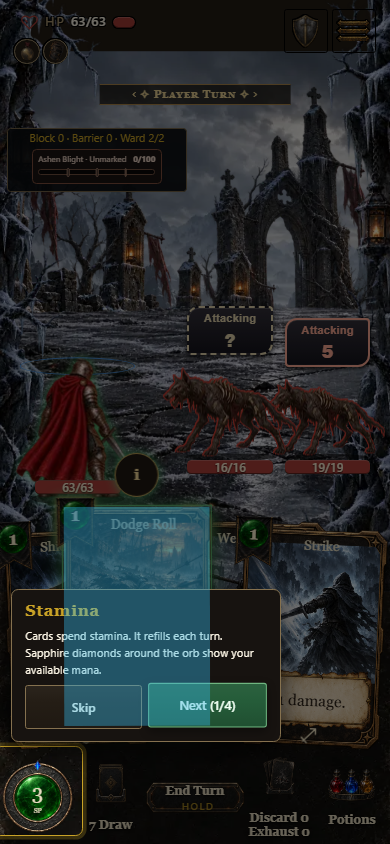
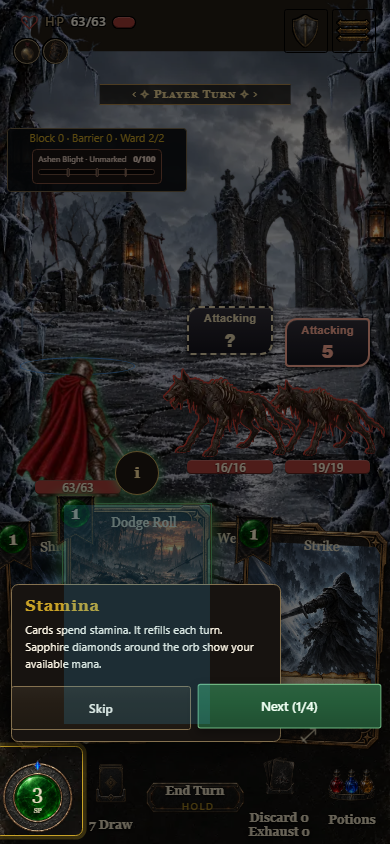
Record combined alternative cards and real tutorial inputs

Changed region(s): [[0.0308, 0.5237, 0.9846, 0.8626], [0.6154, 0.6777, 0.7385, 0.7085]]

diff --git a/docs/combat-card-sigils.md b/docs/combat-card-sigils.md
@@ -70,3 +70,10 @@
 - Standalone `0.7.1.1124` passes desktop and phone hand geometry, artwork loading, accessible names, sigil-position selection, Information and Escape/focus restoration. All four current-build aliases, build identity and receipt ordering checks pass.
 - [Combined source desktop](qa/combat-card-sigils/combined-source/desktop-combat.png), [phone Information](qa/combat-card-sigils/combined-source/phone-inspection.png), [source report](qa/combat-card-sigils/combined-source/report.json), [combined standalone desktop](qa/combat-card-sigils/combined-standalone/desktop-combat.png), [phone Information](qa/combat-card-sigils/combined-standalone/phone-inspection.png), [standalone report](qa/combat-card-sigils/combined-standalone/report.json).
 - Independent review approved #1732 runtime `df48a4d796`: legal empty statements and adjacent side-effect/named imports are accepted, while invalid trailing text and strict-only syntax remain refused. Three real-bundler probes pass. The full hosted corpus and exact-head branch promotions are required separately.
+
+## Combined alternative verification
+
+- After #1728, alternative source `0c33312e4e` passes 2,186 native faces per desktop and touch-phone viewport, all ten actions/eight schools, narrow widths and resize restoration: [desktop](qa/combat-card-sigils/alternative/combined-source/desktop-combat.png), [phone Information](qa/combat-card-sigils/alternative/combined-source/phone-inspection.png), [report](qa/combat-card-sigils/alternative/combined-source/report.json).
+- Independent reviewer `sigil_review` approved the final regular/alternative source reconciliation through `fb8a7d25c2`, preserving battlefield art, stage and animation hooks, both histories and receipts. The current focused suite passes all 39 checks, including legal targets, co-op upcast, tutorial Escape, alternative animation and stage contracts.
+- Tutorial prose passes card input. Its active controls remain bound inside the veil and choose a separate clear position when compact layouts leave no room for the whole callout. Actual hand input, all four Next steps and Skip pass at 800×465, 1024×640, 1200×730, 1280×800, 1366×768, 1440×900 and touch-phone 390×844: [small desktop](qa/combat-card-sigils/alternative/tutorial/800x465-tutorial.png), [phone](qa/combat-card-sigils/alternative/tutorial/390x844-tutorial.png), [report](qa/combat-card-sigils/alternative/tutorial/report.json).
+- With visible sprite target centers protected, actual enemy-target and self-Counter plays plus unarmed Escape pass at 800×465 and touch-phone 390×844: [target report](qa/combat-card-sigils/alternative/tutorial/target-report.json). Both updated off-screen/covered-control fault plants remain observable in the real browser: [fault report](qa/combat-card-sigils/alternative/tutorial/fault-report.json). Full hosted tutorial and self-test corpora remain required separately.
